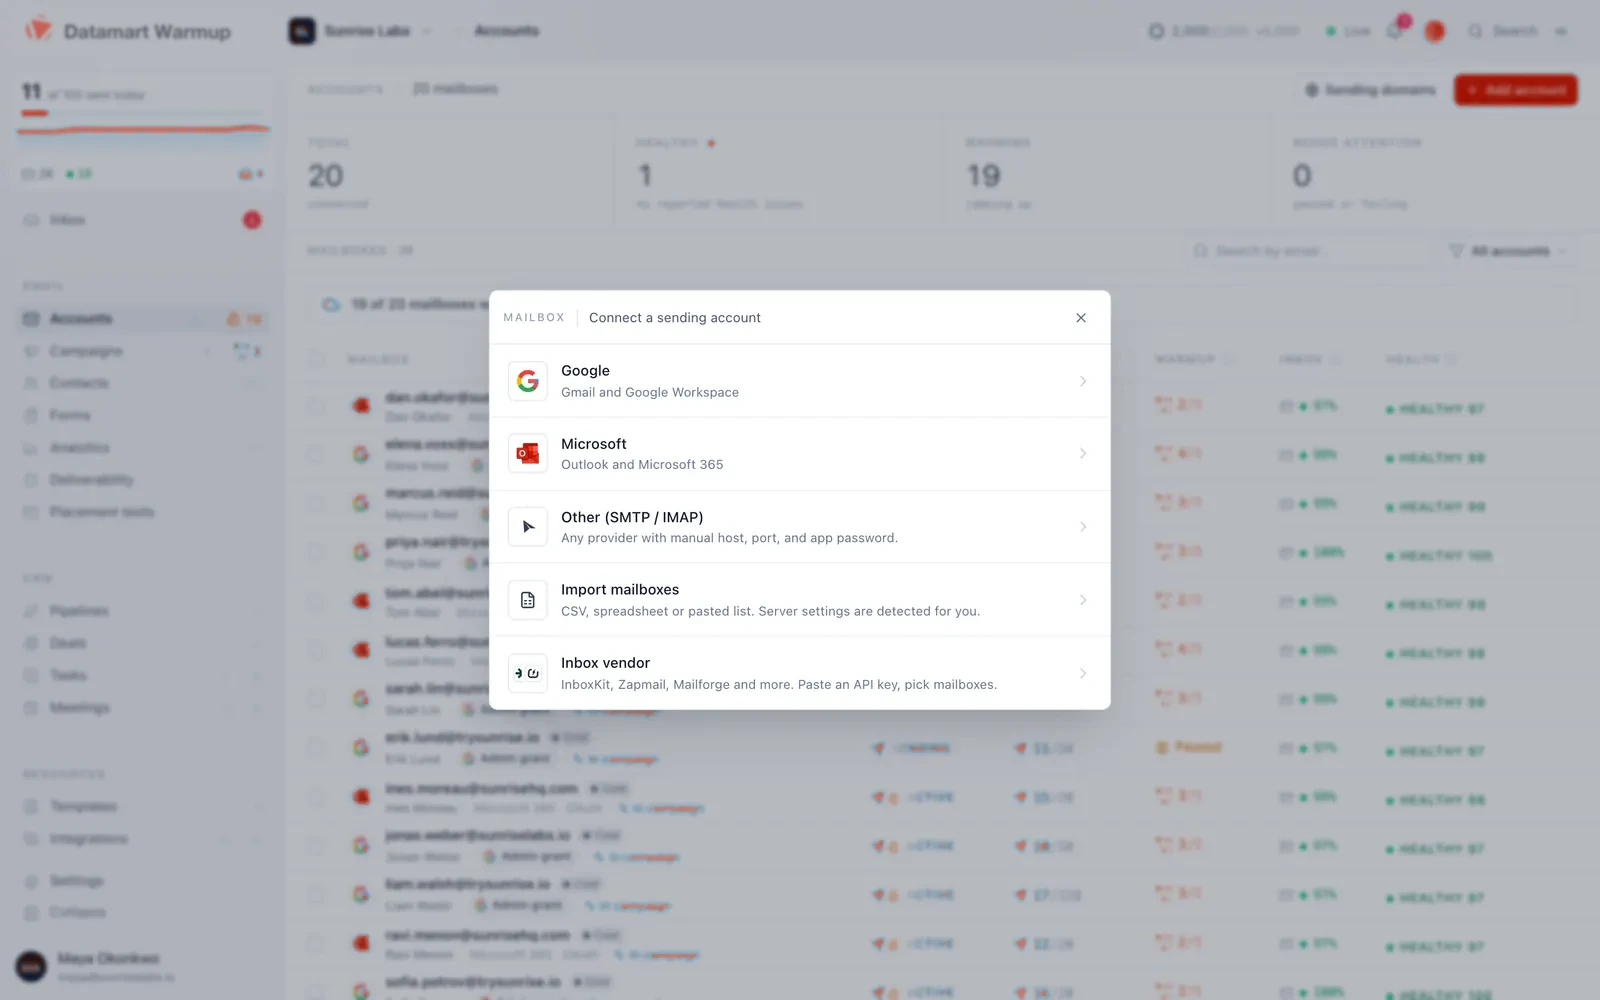
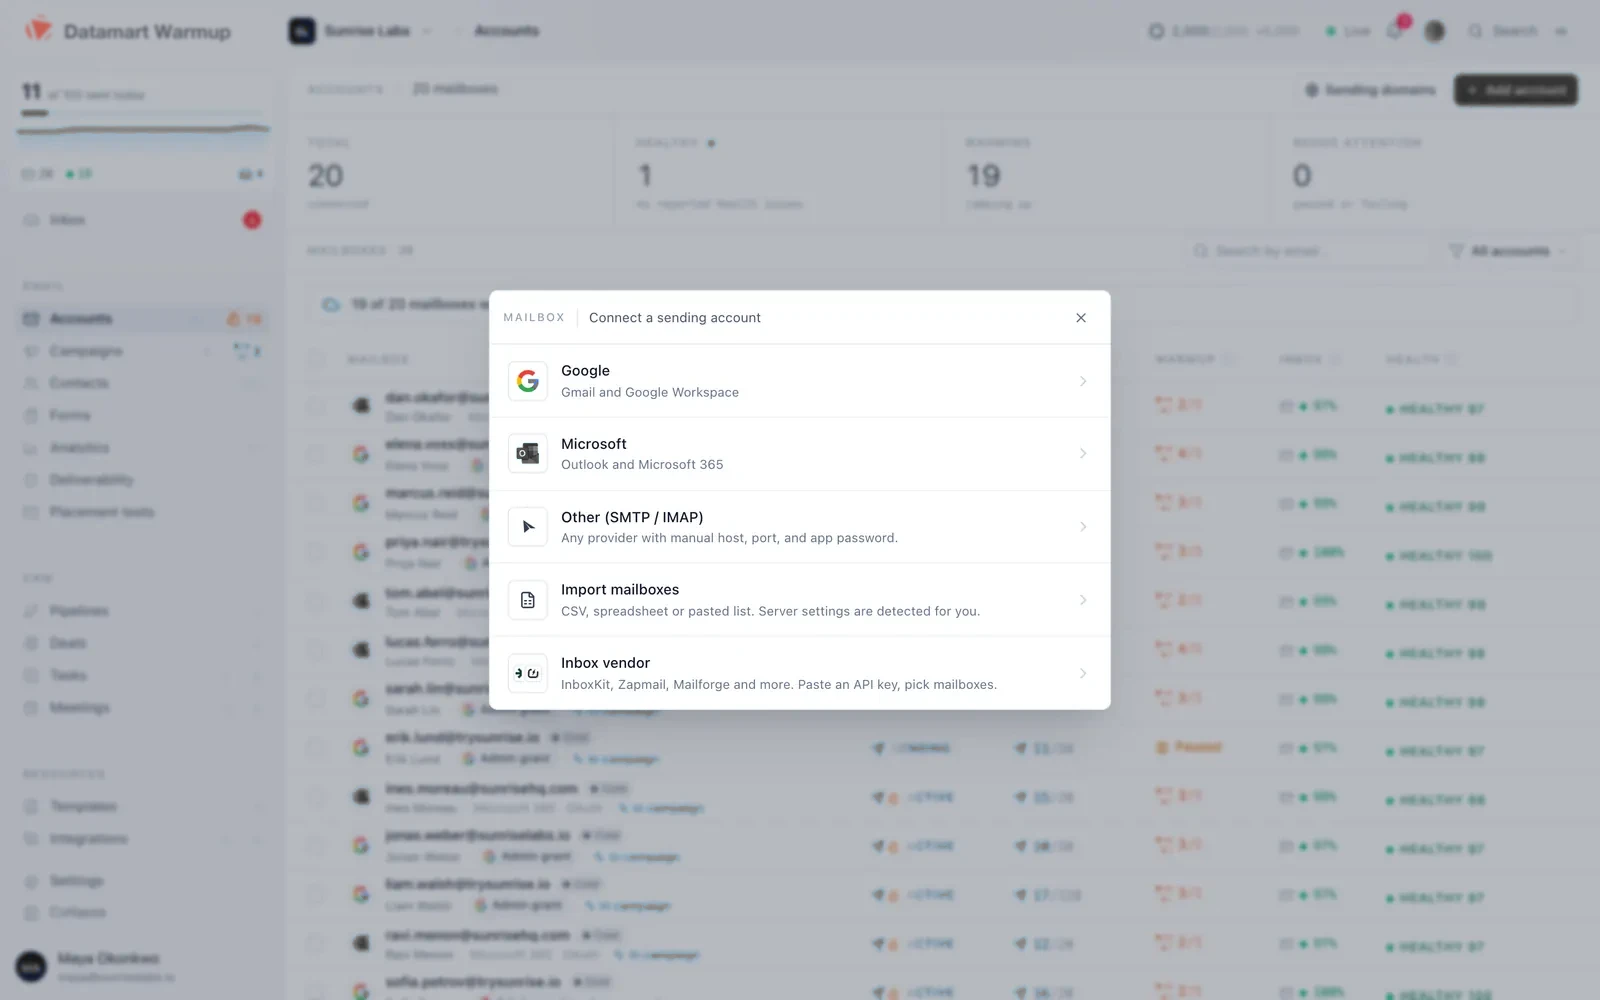
Charcoal as the dashboard colour, Datamart red only as an accent, so red always means a warning

diff --git a/datamart/theme/datamart.css b/datamart/theme/datamart.css
@@ -1,23 +1,23 @@
 
 /* ── Datamart theme (appended by datamart/rebrand.py) ─────────────────────
    Warmbly's brand colour is Tailwind's sky palette, used in some 2,200
-   places. Redefining that one palette as Datamart red recolours all of them;
-   the dark theme's copy of the palette is hue-shifted by rebrand.py. Red is an
-   accent, not a background, per the Datamart brand guide: the sign-in sky
-   becomes charcoal with a red glow. */
+   places. Redefining that one palette as Datamart charcoal recolours all of
+   them; the dark theme's copy is neutralised by rebrand.py. Datamart red stays
+   an accent (logo, sign-in glow, the assistant mark), so red in the dashboard
+   always means a warning or an error. */
 
 @theme {
-  --color-sky-50: #fff3f1;
-  --color-sky-100: #ffe4e0;
-  --color-sky-200: #ffcbc4;
-  --color-sky-300: #ffa395;
-  --color-sky-400: #fb6a55;
-  --color-sky-500: #ec3a20;
-  --color-sky-600: #d61700;
-  --color-sky-700: #b01400;
-  --color-sky-800: #8f1505;
-  --color-sky-900: #76170b;
-  --color-sky-950: #410701;
+  --color-sky-50: #f5f5f5;
+  --color-sky-100: #ebebeb;
+  --color-sky-200: #d9d9d9;
+  --color-sky-300: #b8b8b8;
+  --color-sky-400: #8c8c8c;
+  --color-sky-500: #4d4d4d;
+  --color-sky-600: #333333;
+  --color-sky-700: #262626;
+  --color-sky-800: #1f1f1f;
+  --color-sky-900: #171717;
+  --color-sky-950: #0d0d0d;
 }
 
 .sky-base {

diff --git a/datamart/rebrand.py b/datamart/rebrand.py
@@ -87,7 +87,8 @@ PATCHES = [
         '        if (false && !jumped && slide.chapter.id !== "plans") { // datamart: no plans chapter',
     ),
     (
-        # The sign-in showcase draws its chart and ring in a hard-coded sky blue.
+        # The sign-in showcase draws its chart and ring in a hard-coded sky
+        # blue; on its charcoal panel they take the red accent.
         "web/src/app/auth/_components/AuthShowcase.tsx",
         'd="M0 25 L24 22 L48 23 L72 15 L96 9 L120 3" stroke="#0ea5e9"',
         'd="M0 25 L24 22 L48 23 L72 15 L96 9 L120 3" stroke="#d61700"',
@@ -106,18 +107,46 @@ THEME_MARK = "Datamart theme (appended by datamart/rebrand.py)"
 STYLESHEETS = ["web/src/global.css", "admin/src/global.css"]
 
 # The dark theme keeps its own copy of the sky palette (translucent washes,
-# lightness flipped for dark surfaces). Keep each step's lightness and alpha,
-# turn the hue to Datamart red and lift the chroma a little, red being less
-# saturated than sky at the same oklch chroma.
+# lightness flipped for dark surfaces). Keep each step's lightness and alpha and
+# drop the colour, so it reads as charcoal and white like the light theme. In
+# the solid-fill block (buttons and badges with white text) the darker steps go
+# darker still, so white text on them keeps its contrast.
 DARK_THEME = "web/src/styles/theme-dark.css"
-SKY_OKLCH = re.compile(r"(--color-sky-\d+:\s*oklch\()([\d.]+%)\s+([\d.]+)\s+([\d.]+)")
+SKY_OKLCH = re.compile(r"(--color-sky-(\d+):\s*oklch\()([\d.]+)%\s+([\d.]+)\s+([\d.]+)")
+SOLID_BLOCK = ".dark :is(.theme-solid"
+LIGHT_BLOCK = ".dark .theme-light {"
+# Light islands inside dark mode (white cards, menus) use the light theme's
+# values, taken from the @theme block in datamart/theme/datamart.css.
+LIGHT_SCALE = dict(re.findall(r"--color-sky-(\d+):\s*(#[0-9a-f]{6})", THEME_CSS.read_text()))
 
 
-def redden(m: re.Match) -> str:
-    if float(m.group(4)) == 29:
-        return m.group(0)  # already recoloured
-    chroma = min(float(m.group(3)) * 1.35, 0.235)
-    return f"{m.group(1)}{m.group(2)} {chroma:.3f} 29"
+def neutralise(text: str) -> tuple[str, int]:
+    out, n, solid, light = [], 0, False, False
+    for line in text.splitlines(keepends=True):
+        if line.startswith(SOLID_BLOCK):
+            solid = True
+        elif line.startswith(LIGHT_BLOCK):
+            light = True
+        elif line.startswith("}"):
+            solid = light = False
+        if light:
+            new = re.sub(r"(--color-sky-(\d+):\s*)oklch\([^)]*\)", lambda m: m.group(1) + LIGHT_SCALE[m.group(2)], line)
+            n += new != line
+            out.append(new)
+            continue
+
+        def grey(m: re.Match) -> str:
+            nonlocal n
+            n += 1
+            light = float(m.group(3))
+            if float(m.group(4)) == 0:
+                return m.group(0)  # already neutral
+            if solid and int(m.group(2)) >= 500:
+                light -= 22
+            return f"{m.group(1)}{light:g}% 0 0"
+
+        out.append(SKY_OKLCH.sub(grey, line))
+    return "".join(out), n
 
 
 def kept(path: Path) -> bool:
@@ -188,8 +217,8 @@ def main(check: bool) -> int:
         errors.append(f"{DARK_THEME}: file is gone")
     else:
         text = dark.read_text()
-        new, n = SKY_OKLCH.subn(redden, text)
-        if n == 0 and " 29)" not in text:
+        new, n = neutralise(text)
+        if n == 0:
             errors.append(f"{DARK_THEME}: no sky palette found to recolour")
         if not check:
             dark.write_text(new)

diff --git a/datamart/tools/stamp_tour_shots.py b/datamart/tools/stamp_tour_shots.py
@@ -3,7 +3,7 @@
 
 The tour shows real screenshots of the dashboard with the Warmbly logo and name
 in the top-left corner. This paints that corner over with the page colour and
-draws our mark and name in its place, turns the sky-blue accents Datamart red,
+draws our mark and name in its place, turns the sky-blue accents Datamart charcoal,
 and swaps the Slack app avatar for our icon. Results go to datamart/overrides/, which rebrand.py copies over the
 checkout, and their upstream hashes go to datamart/overrides.json so a Warmbly
 update that changes a screenshot is caught instead of silently overwritten.
@@ -45,12 +45,13 @@ def draw_mark(patch: Image.Image, x: int, y: int, h: int, dim: bool):
 
 
 def recolour(im: Image.Image) -> Image.Image:
-    """Turn Warmbly's sky-blue accents Datamart red, keeping each pixel's
-    saturation and brightness so tints and shades stay tints and shades."""
-    hsv = np.array(im.convert("HSV"), dtype=np.int16)
-    h, s = hsv[..., 0], hsv[..., 1]
+    """Turn Warmbly's sky-blue accents Datamart charcoal, as the app's palette
+    does: pale washes stay pale, strong blues become dark grey."""
+    hsv = np.array(im.convert("HSV"), dtype=np.float32)
+    h, s, v = hsv[..., 0], hsv[..., 1], hsv[..., 2]
     sky = (h >= 130) & (h <= 155) & (s >= 60)  # 185 to 218 degrees, not greys
-    h[sky] = 4  # Datamart red sits near 6 degrees
+    v[sky] = v[sky] * (1 - 0.7 * s[sky] / 255)
+    s[sky] = 0
     return Image.fromarray(hsv.astype(np.uint8), "HSV").convert("RGB")
 
 
